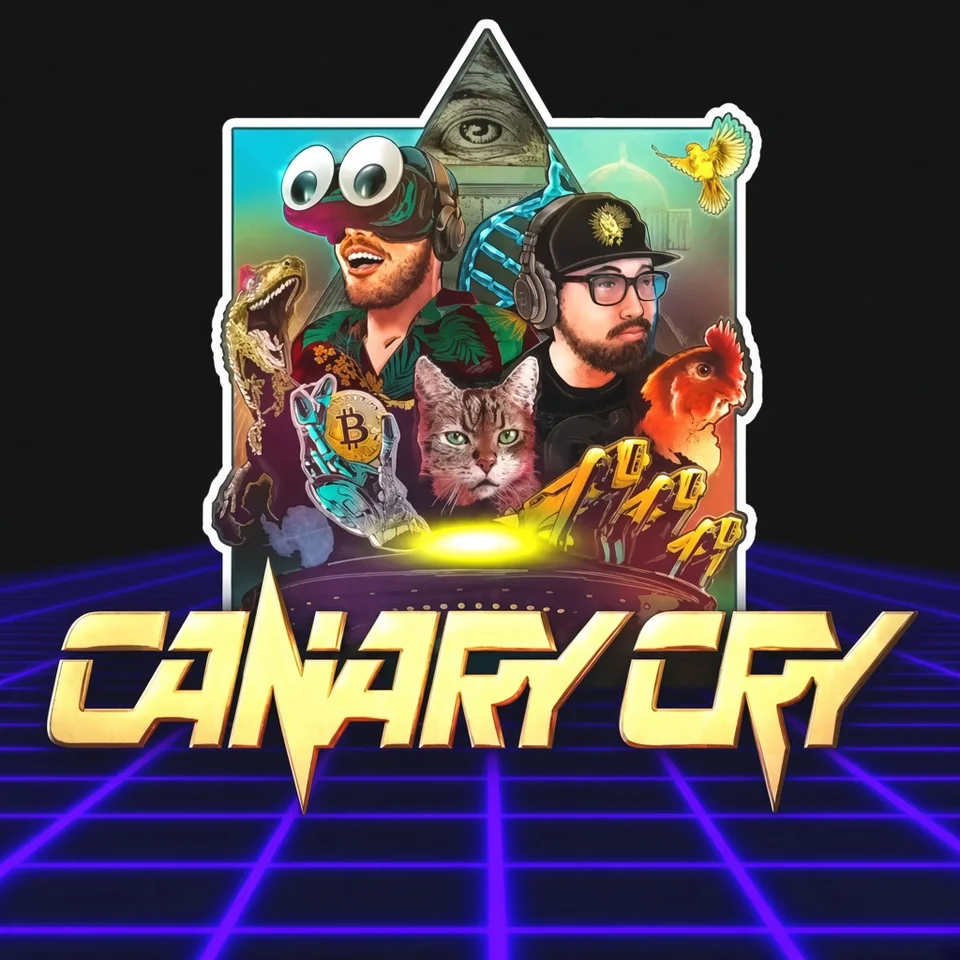
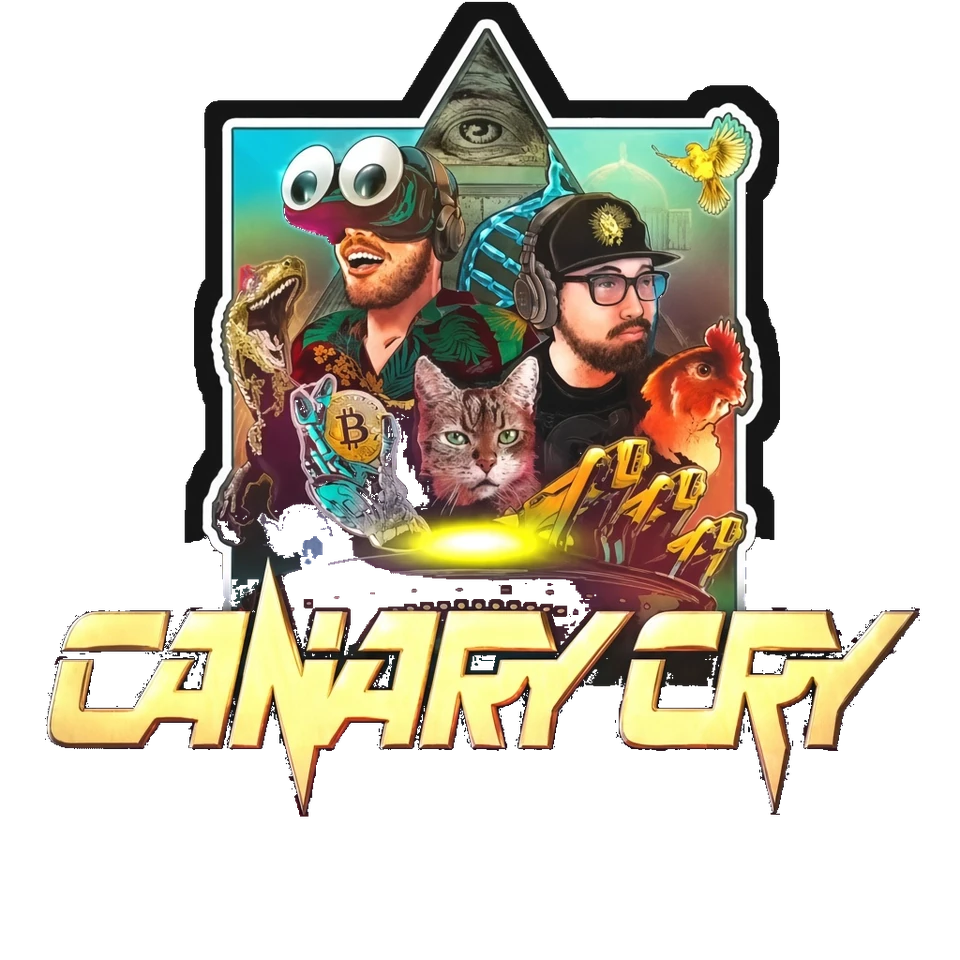
Hero key art: drop purple grid, transparent BG, larger art
Chroma-key purple/magenta synthwave grid outside the sticker+gold
protect mask; export PNG/WebP with alpha so the always-dark band
(#0a0a0a + hero-glow) shows through. Remove radial mask/radius box
treatment. Enlarge art ~23% on desktop (26→32rem) and phone
(min(14rem,72vw)→min(17rem,80vw)).

diff --git a/app/styles/theme.css b/app/styles/theme.css
@@ -752,24 +752,17 @@ p {
 }
 .mission-hero__art {
   margin: 0;
-  /* Square key art: keep phone height in check (~14rem ≈ 224px). */
-  max-width: min(14rem, 72vw);
+  /* Transparent key art sits on the always-dark band; no box mask needed. */
+  max-width: min(17rem, 80vw);
   justify-self: center;
   order: -1; /* phone: art above the copy (Option A) */
   width: 100%;
-  border-radius: 14px;
-  overflow: hidden;
-  /* Feather black JPG edges into the dark band; soft gold halo for depth. */
-  -webkit-mask-image: radial-gradient(ellipse 86% 86% at 50% 46%, #000 52%, transparent 100%);
-  mask-image: radial-gradient(ellipse 86% 86% at 50% 46%, #000 52%, transparent 100%);
-  filter: drop-shadow(0 0 28px rgba(230, 180, 15, 0.22));
 }
 .mission-hero__art picture,
 .mission-hero__art img {
   display: block;
   width: 100%;
   height: auto;
-  vertical-align: top;
 }
 .mission-hero__title {
   margin: 0;
@@ -862,7 +855,7 @@ p {
   }
   .mission-hero__art {
     order: 0;
-    max-width: min(26rem, 100%);
+    max-width: min(32rem, 100%); /* ~23% larger than 26rem */
   }
 }
 

diff --git a/app/routes/home.tsx b/app/routes/home.tsx
@@ -86,8 +86,8 @@ export default function Home({ loaderData }: Route.ComponentProps): React.ReactN
               <picture>
                 <source srcSet={asset("images/canary-cry-key-art.webp")} type="image/webp" />
                 <img
-                  src={asset("images/canary-cry-key-art.jpg")}
-                  alt="Canary Cry key art: the hosts surrounded by the show's symbols over a neon grid"
+                  src={asset("images/canary-cry-key-art.png")}
+                  alt="Canary Cry key art: the hosts surrounded by the show's symbols"
                   width={960}
                   height={960}
                 />
